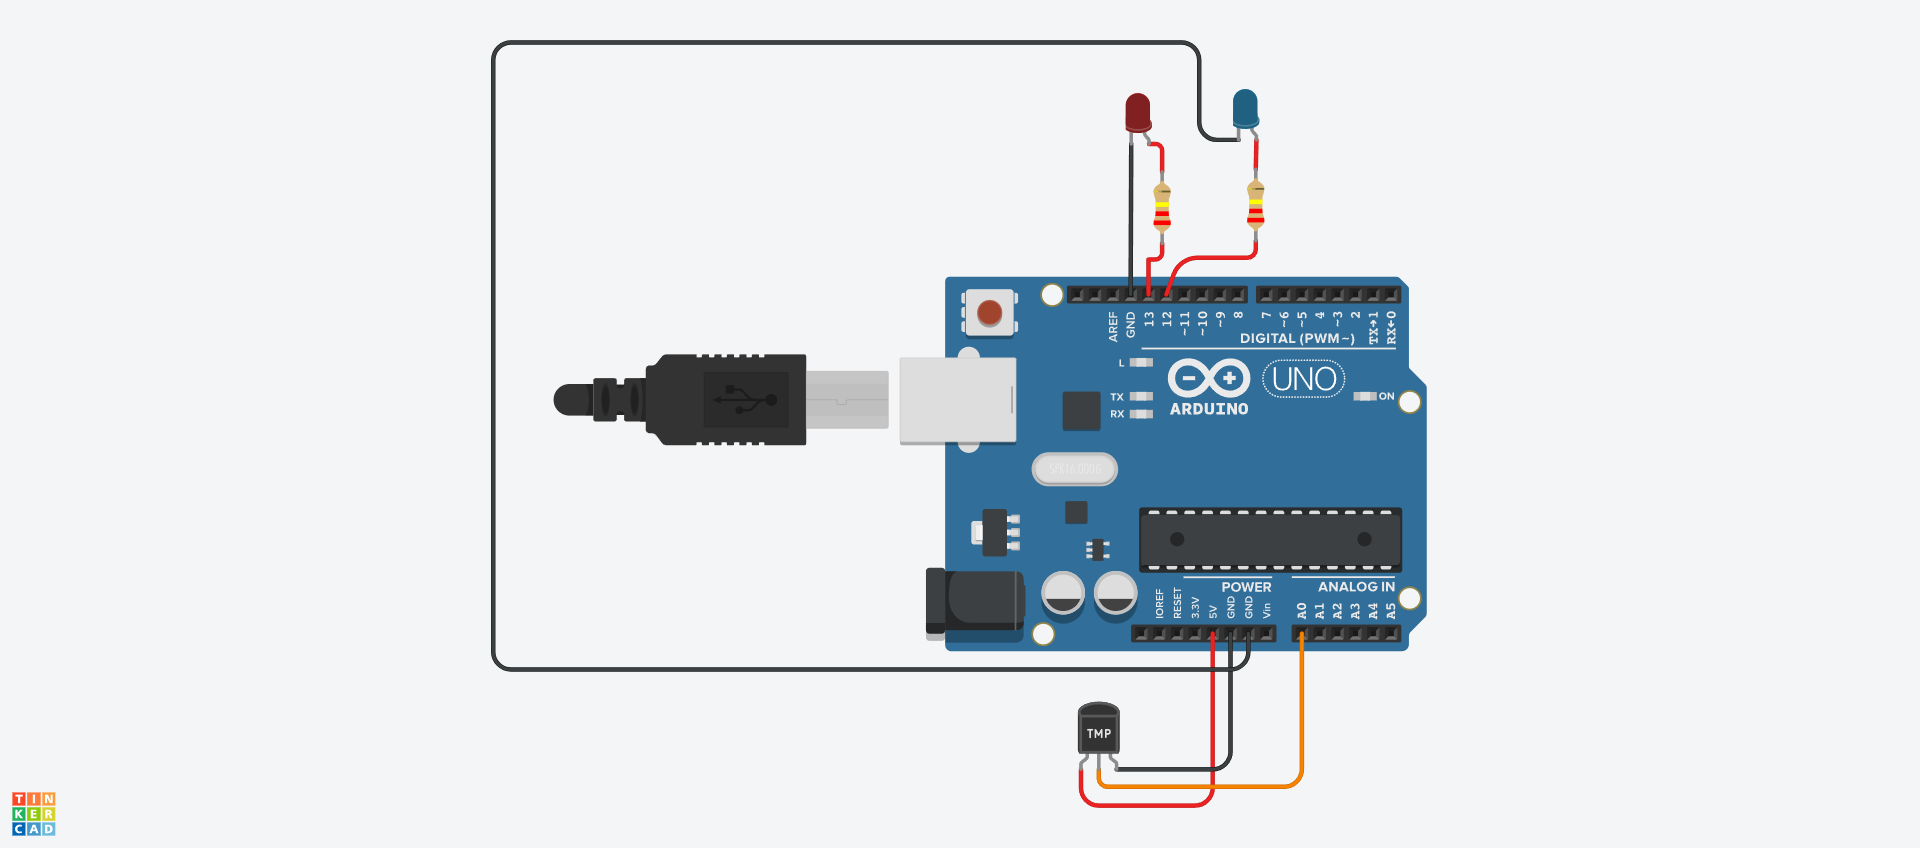
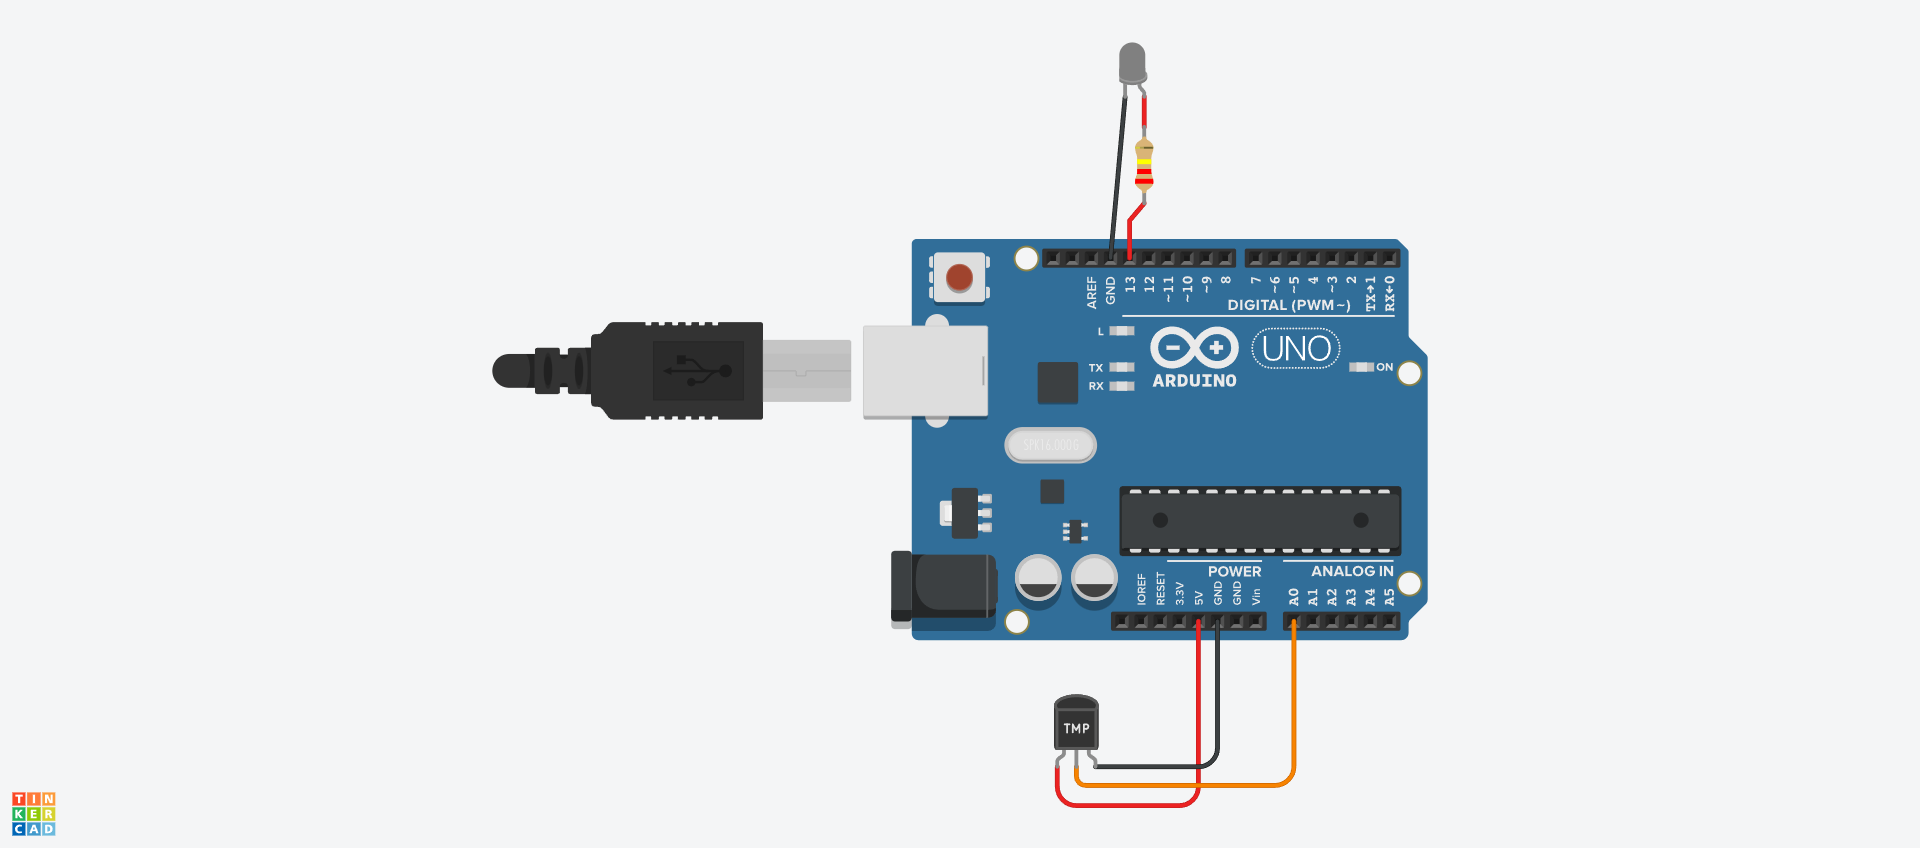
Actualizando Repo

Changed region(s): [[0.25, 0.0307, 0.75, 0.9505]]

diff --git a/python_app/ejercicios_bibliotecas/reporte.py b/python_app/ejercicios_bibliotecas/reporte.py
@@ -1,0 +1,22 @@
+from datetime import datetime
+import random
+import time
+
+# Simulamos un ciclo de 5 mediciones
+print("--- Iniciando Registro de la Estación Meteorológica ---")
+
+for i in range(5):
+    # 1. Capturamos la hora exacta
+    ahora = datetime.now()
+    hora_formateada = ahora.strftime("%H:%M:%S")
+    
+    # 2. Simulamos el dato del sensor de humedad
+    humedad = random.randint(30, 90)
+    
+    # 3. Mostramos el reporte combinado
+    print(f"[{i+1}] A las {hora_formateada} la humedad es de {humedad}%")
+    
+    # 4. Esperamos 2 segundos entre mediciones para que no sea instantáneo
+    time.sleep(2)
+
+print("--- Registro finalizado ---")

diff --git a/python_app/ejercicios_bibliotecas/tiempo.py b/python_app/ejercicios_bibliotecas/tiempo.py
@@ -1,0 +1,10 @@
+from datetime import datetime
+
+# Obtenemos el momento actual
+ahora = datetime.now()
+
+print(f"Registro completo: {ahora}")
+print(f"Año: {ahora.year}")
+print(f"Mes: {ahora.month}")
+print(f"Día: {ahora.day}")
+

diff --git a/python_app/ejercicios_bibliotecas/redondeo.py b/python_app/ejercicios_bibliotecas/redondeo.py
@@ -1,0 +1,9 @@
+import math
+
+temp_sensor = 25.6789
+
+print(f"Temperatura original: {temp_sensor}")
+print(f"Redondeo hacia arriba (ceil): {math.ceil(temp_sensor)}")
+print(f"Redondeo hacia abajo (floor): {math.cb(temp_sensor)}") # Error común: floor, no cb
+# Corregido:
+print(f"Redondeo hacia abajo (floor): {math.floor(temp_sensor)}")

diff --git a/python_app/ejercicios_bibliotecas/datos_aliatorios.py b/python_app/ejercicios_bibliotecas/datos_aliatorios.py
@@ -1,0 +1,7 @@
+import random
+
+# Simulamos 5 mediciones de humedad
+for i in range(5):
+    humedad_simulada = random.randint(20, 100)
+    print(f"Medición de prueba {i+1}: {humedad_simulada}%")
+

diff --git a/python_app/ejercicios_bibliotecas/lectura.py b/python_app/ejercicios_bibliotecas/lectura.py
@@ -1,0 +1,7 @@
+import platform
+
+sistema = platform.system()
+procesador = platform.processor()
+
+print(f"La estación está corriendo en: {sistema}")
+print(f"Tipo de procesador: {procesador}")